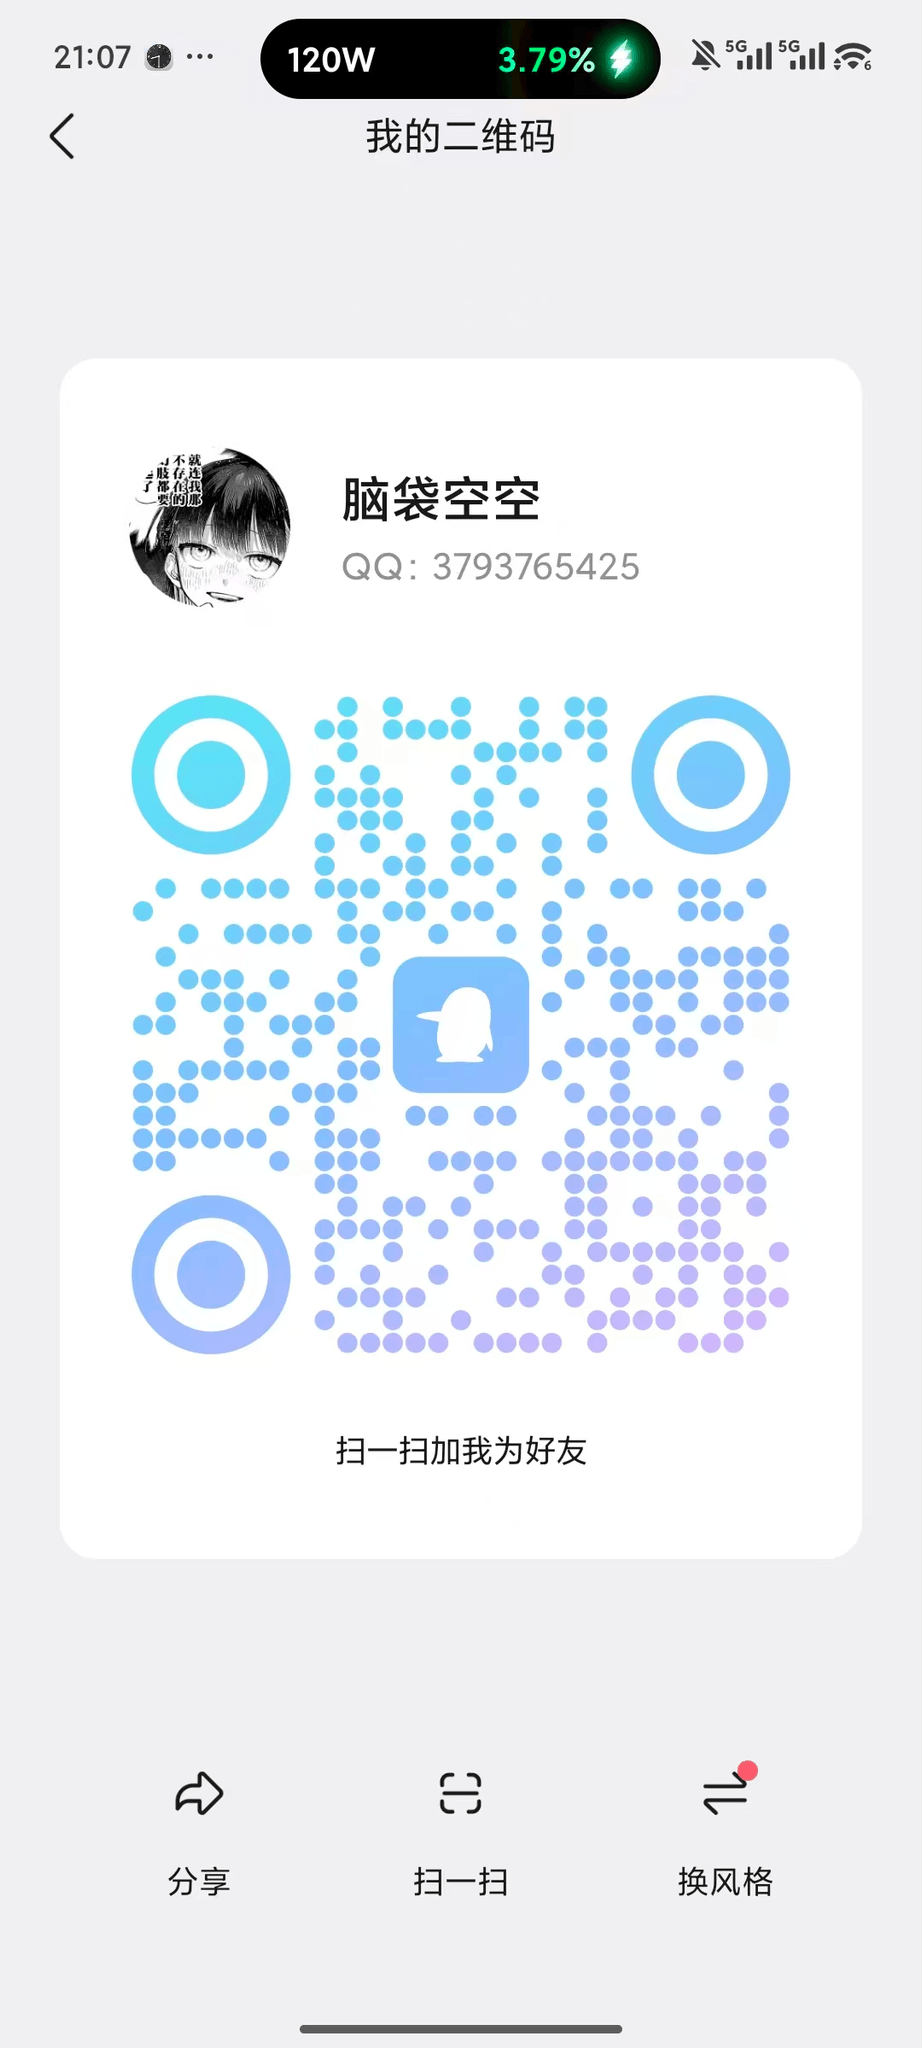
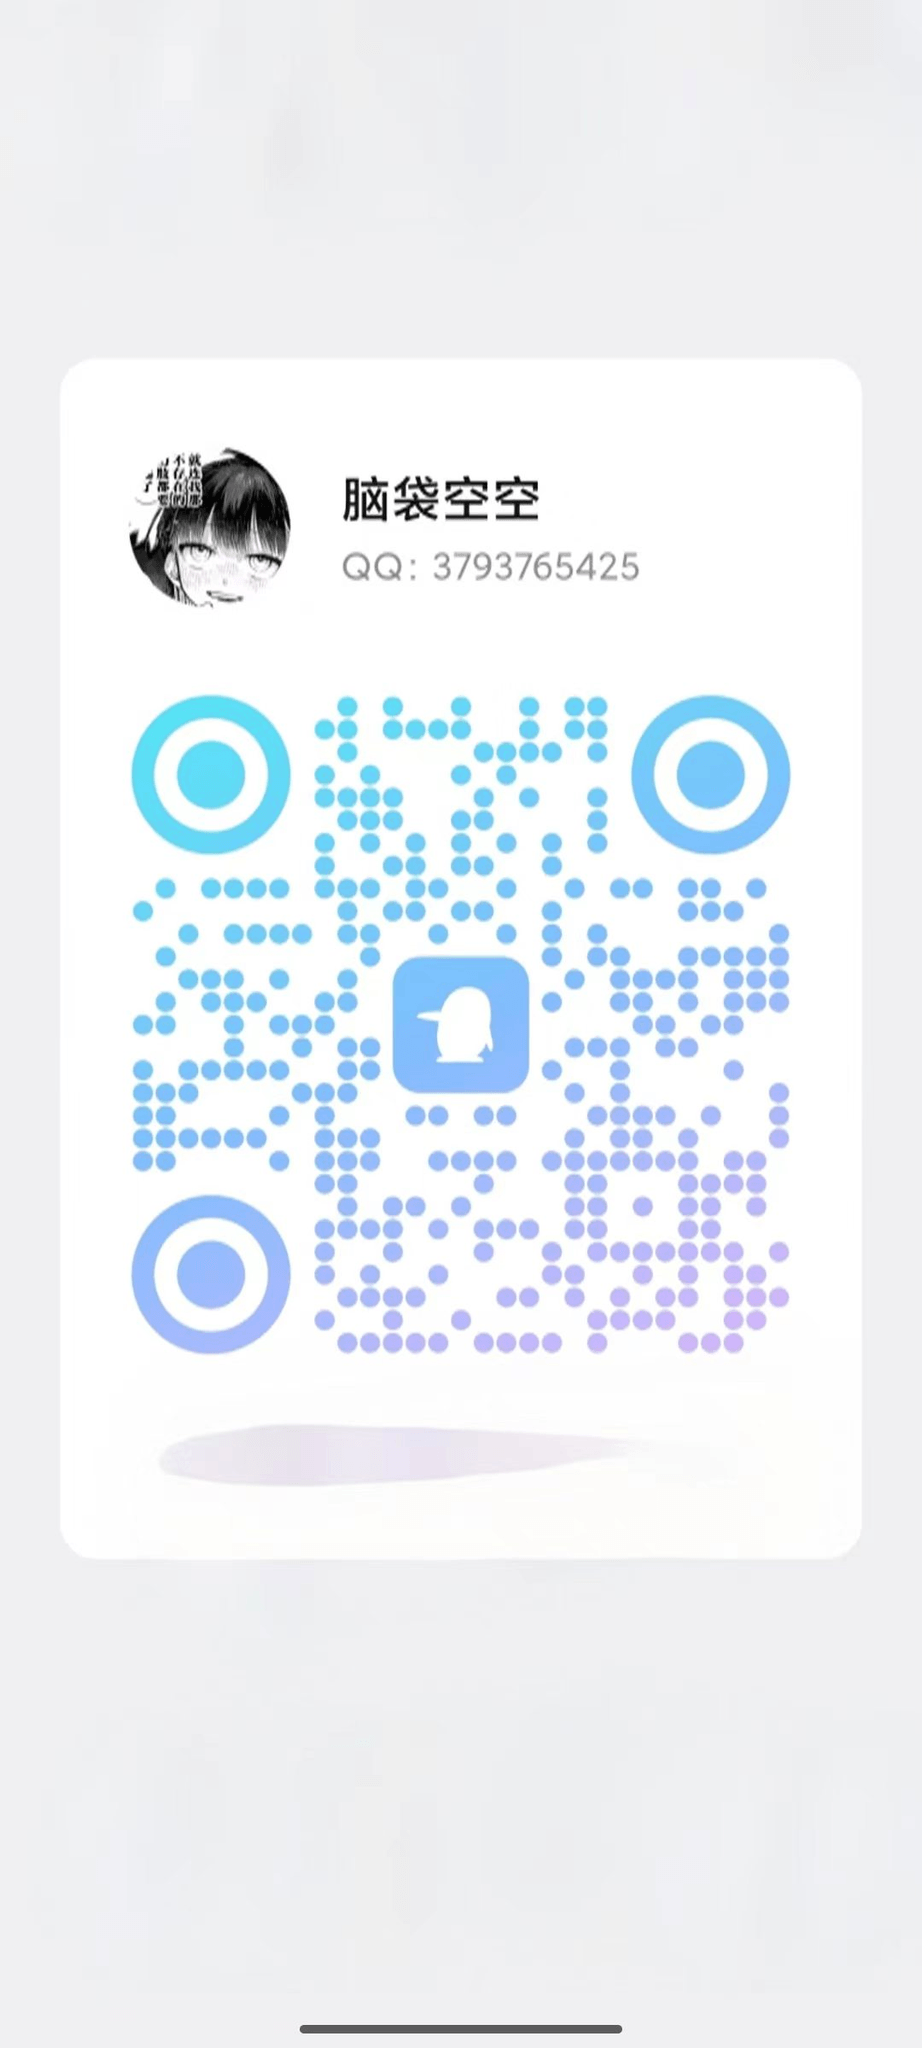
feat: 替换QQ二维码图，移除邮箱二维码图片

diff --git a/index.html b/index.html
@@ -979,10 +979,9 @@ footer {
       <!-- ===== CONTACT ===== -->
       <div class="tab-content" data-tab="contact">
         <h3>contact me ✉</h3>
-        <p class="lead">三种最快的联系方式 — 都点开后扫二维码即可。</p>
+        <p class="lead">联系我 — 微信 / QQ 扫码，邮箱直接发信即可。</p>
         <div class="contact-grid">
           <div class="qr-card">
-            <div class="qr-img has-qr" style="background:#fff url('qr_email.png') center/contain no-repeat"></div>
             <h4>Email</h4>
             <div class="meta">poiu98761@qq.com</div>
           </div>
@@ -998,7 +997,7 @@ footer {
           </div>
         </div>
         <p style="font-size:13px; color:#6a6048; margin-top: 18px;">
-          // 二维码已替换为真实图（qr_email.png / qr_wechat.jpg / qr_qq.png）— 长按/点击保存图片扫码即可。
+          // 微信 / QQ 已用真实二维码，邮箱直接复制地址发信即可。
         </p>
       </div>
 
